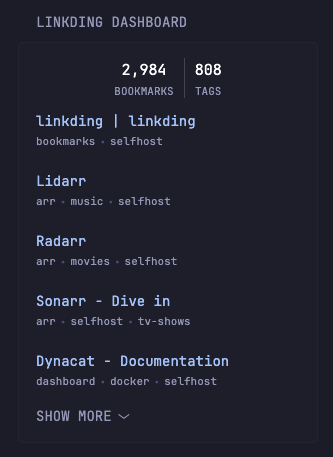
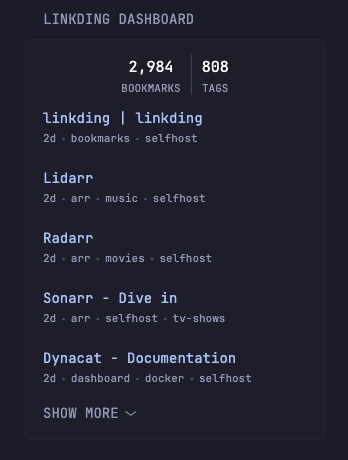
update linkding widget with horizontal layout

diff --git a/widgets/linkding-dashboard/widget.md b/widgets/linkding-dashboard/widget.md
@@ -1,12 +1,19 @@
 # Linkding Dashboard
 
-This widget displays number of Bookmarks, number of Tags, and the most recent bookmarks (configurable) of your [Linkding](https://linkding.link/) instance.
+This widget displays number of Bookmarks, number of Tags, and the most recent bookmarks (configurable) of your [Linkding](https://linkding.link/) instance. In `horizontal` layout it shows the most recent bookmarks only.
 
-The widget used the Glance [Karakeep Dashboard](https://github.com/glanceapp/community-widgets/tree/main/widgets/karakeep-dashboard) as base for the code, plus some style and ideas from the [Linkwarden latests](https://github.com/glanceapp/community-widgets/tree/main/widgets/linkwarden-latest-bookmarks) widget. While it should work in full columns, it looks better in small columns.
+The widget used the Glance [Karakeep Dashboard](https://github.com/glanceapp/community-widgets/tree/main/widgets/karakeep-dashboard) as base for the code, plus some style and ideas from the [Linkwarden latests](https://github.com/glanceapp/community-widgets/tree/main/widgets/linkwarden-latest-bookmarks) widget.
+
+For the horizontal layout, the widget uses the `horizontal-cards` layout available for the dynacat [rss widget](https://dynacat.artur.zone/#configuration/rss).
 
 <details>
 <summary>Small column layout</summary>
 <img src="images/linkding-small.png" width="800px" />
+<details>
+
+<details>
+<summary>Small column layout</summary>
+<img src="images/linkding-large.png" width="300px" />
 <details>
 
 ## Configuration
@@ -20,7 +27,8 @@ The widget used the Glance [Karakeep Dashboard](https://github.com/glanceapp/com
   limit: 10
   collapse-after: 5
   in-new-tab: true
-```
+  layout: vertical
+  thumbnail-height: 10
 
 ## Environment Variables
 